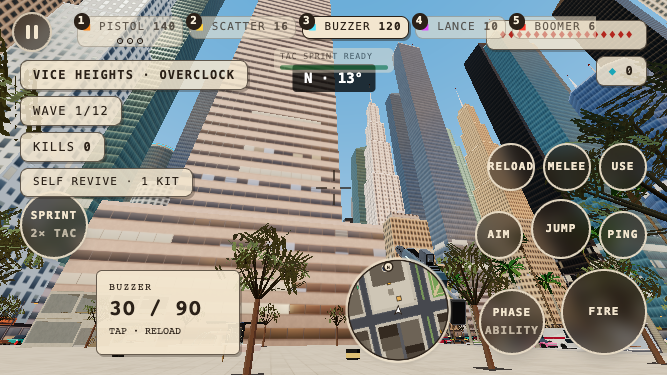
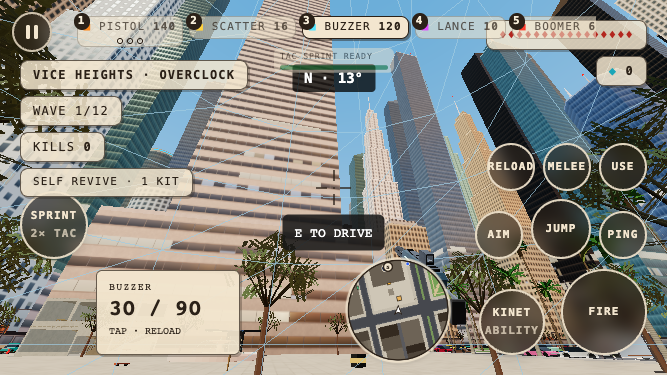
Keep ammo visible through scopes and clear compact controller status

diff --git a/src/game/Game.tsx b/src/game/Game.tsx
@@ -9179,7 +9179,7 @@ export function Game() {
       )}
       <style>{`@keyframes hurt { from { opacity: 1 } to { opacity: 0 } }`}</style>
 
-      <div className={`pointer-events-none fixed inset-0 font-mono ${touchUi ? "z-[25]" : "z-10"}`}>
+      <div data-combat-hud data-touch={touchUi} className={`pointer-events-none fixed inset-0 font-mono ${touchUi ? "z-[25]" : "z-10"}`}>
         <div className="flex items-start justify-between p-5 text-[#2b2118]">
           <div className={`flex flex-col items-start gap-1.5 ${touchUi ? "mt-10 text-[11px]" : "text-xs"}`}>
             {started && !ended && (
@@ -9380,28 +9380,30 @@ export function Game() {
             SELF REVIVE · {soloKit.kit ? "1 KIT" : "EMPTY · SHOP / RARE FINDS"}
           </HudChip>
         )}
-        {locked && !ended && (
-          <SprintMeter
-            className={
-              touchUi
-                ? "absolute left-1/2 top-12 origin-top -translate-x-1/2 scale-75"
-                : "absolute bottom-[3.9rem] left-5"
-            }
-          />
-        )}
-        {locked && !ended && !touchUi && (
-          <div className="absolute bottom-6 left-5 rounded-md border border-[#2b2118]/70 bg-[#f3e6cf]/85 px-3 py-1.5 text-xs tracking-widest text-[#2b2118] shadow-[2px_2px_0_0_rgba(43,33,24,0.3)]">
-            <span className="rounded-sm border border-[#2b2118]/30 bg-[#2b2118] px-1.5 py-0.5 font-bold text-[#f7eeda]">
-              <KeyHint action="ability" />
-            </span>{" "}
-            {ABILITIES[ability].name} ·{" "}
-            {abilCd.left > 0 ? (
-              <span className="opacity-50">{Math.ceil(abilCd.left)}s</span>
-            ) : (
-              <b className="text-[#1d7a37]">READY</b>
-            )}
-          </div>
-        )}
+        <div className="hud-player-status">
+          {locked && !ended && (
+            <SprintMeter
+              className={
+                touchUi
+                  ? "absolute left-1/2 top-12 origin-top -translate-x-1/2 scale-75"
+                  : "absolute bottom-[3.9rem] left-5"
+              }
+            />
+          )}
+          {locked && !ended && !touchUi && (
+            <div className="hud-ability absolute bottom-6 left-5 rounded-md border border-[#2b2118]/70 bg-[#f3e6cf]/85 px-3 py-1.5 text-xs tracking-widest text-[#2b2118] shadow-[2px_2px_0_0_rgba(43,33,24,0.3)]">
+              <span className="rounded-sm border border-[#2b2118]/30 bg-[#2b2118] px-1.5 py-0.5 font-bold text-[#f7eeda]">
+                <KeyHint action="ability" />
+              </span>{" "}
+              {ABILITIES[ability].name} ·{" "}
+              {abilCd.left > 0 ? (
+                <span className="opacity-50">{Math.ceil(abilCd.left)}s</span>
+              ) : (
+                <b className="text-[#1d7a37]">READY</b>
+              )}
+            </div>
+          )}
+        </div>
 
         {eventMsg && locked && !ended && (
           <div className="absolute left-1/2 top-[22%] -translate-x-1/2 rounded-md border-2 border-[#f3e6cf]/50 bg-[#b3261e]/90 px-6 py-2 text-center text-lg font-bold tracking-[0.3em] text-[#f7eeda] shadow-[3px_3px_0_0_rgba(43,33,24,0.55)]">

diff --git a/src/game/ui/ammo-hud.css b/src/game/ui/ammo-hud.css
@@ -1,5 +1,6 @@
 .ammo-hud {
   position: fixed;
+  z-index: 20;
   left: max(20px, env(safe-area-inset-left));
   bottom: calc(max(20px, env(safe-area-inset-bottom)) + 92px);
   width: 168px;
@@ -24,8 +25,30 @@ html.rs-incar .ammo-hud { display: none; }
 .ammo-hud[data-touch="true"] {
   bottom: calc(max(20px, env(safe-area-inset-bottom)) + 232px);
 }
+.hud-player-status { display: contents; }
 /* On landscape phones use the gap between the movement thumb and minimap. */
 @media (orientation: landscape) and (max-height: 540px) {
+  .ammo-hud[data-touch="false"] {
+    bottom: max(20px, env(safe-area-inset-bottom));
+  }
+  [data-combat-hud][data-touch="false"] .hud-player-status {
+    position: absolute;
+    left: calc(max(20px, env(safe-area-inset-left)) + 176px);
+    bottom: max(24px, env(safe-area-inset-bottom));
+    width: 160px;
+    display: flex;
+    flex-direction: column;
+    gap: 6px;
+  }
+  [data-combat-hud][data-touch="false"] .hud-player-status > * {
+    position: static;
+    width: 100%;
+  }
+  [data-combat-hud][data-touch="false"] .hud-ability {
+    padding: 6px 8px;
+    font-size: 10px;
+    letter-spacing: .04em;
+  }
   .ammo-hud[data-touch="true"] {
     left: calc(max(20px, env(safe-area-inset-left)) + 76px);
     bottom: max(20px, env(safe-area-inset-bottom));

diff --git a/docs/evidence/ammo-hud/README.md b/docs/evidence/ammo-hud/README.md
@@ -1,13 +1,11 @@
 # Fixed ammo / reload HUD
 
-The user-provided `before-user.png` shows the world-projected ammo label overlapping the elevator floor button. `desktop.png` and `desktop-look.png` show the fixed HUD at the same viewport rectangle after yaw/pitch input. `reload.png` shows the progress indicator in that same slot.
+The user-provided `before-user.png` shows the projected ammo label overlapping the elevator floor button. `desktop.png` and `desktop-look.png` show the fixed HUD at the same viewport rectangle after yaw/pitch input. `reload.png` shows progress in that slot. `desktop-ads.png` confirms the panel remains visible above the Longshot scope mask.
 
-`touch-landscape.png`, `touch-667.png`, and `touch-568.png` cover 844×390, 667×375, and 568×320. The ammo panel clears the minimap, SELF REVIVE chip and action buttons. `touch-portrait.png` confirms the existing rotate-device screen at 390×844.
+`controller.png` shows the Switch reload glyph after Xbox and PlayStation checks. `controller-844.png`, `controller-568.png`, and `keyboard-568.png` cover short non-touch screens: ammo, sprint, the longest ability name (KINETIC BARRIER), self-revive status, and minimap stay separate. Sprint and ability flow together beside ammo so wrapped text cannot overlap.
 
-Run `BASE=http://127.0.0.1:4187 node scripts/playtest-ammo-hud.mjs` against the isolated dev server, or set BASE to a local production server. It writes screenshots and `results.json`, asserts a stable rectangle after look inputs, validates reload progress/counts, pause/resume, driving visibility, controller-family glyphs, touch overlap and downing visibility. Controller input is simulated through the browser Gamepad API; no physical controller or physical phone was tested. Vehicle visibility uses the existing debug handle. No performance benchmark was run: this change adds no scene rendering or per-frame React updates.
+`touch-landscape.png`, `touch-667.png`, and `touch-568.png` cover 844×390, 667×375, and 568×320. Ammo clears the minimap, SELF REVIVE chip and action buttons. `touch-portrait.png` confirms the existing rotate-device screen at 390×844. `downed.png` confirms ammo is absent during the self-revive prompt. The elevator root-state assertion verifies ammo hides while the floor controls are active.
 
-`controller.png` shows the Switch reload glyph after Xbox and PlayStation checks. `downed.png` confirms ammo is absent during the self-revive prompt. The production-build run recorded 13 passing functional assertions with zero page errors. All 69 unit tests on the combined revive + ammo tree, typecheck, production build, and repository-map coverage passed.
+Run `BASE=http://127.0.0.1:4187 node scripts/playtest-ammo-hud.mjs` against the isolated dev server, or set BASE to a production server. It writes screenshots and `results.json`. The final production-build capture recorded 17 functional assertions with zero page errors. Controller input is simulated through the browser Gamepad API; no physical controller or phone was tested. Vehicle visibility uses the existing debug handle. No performance benchmark was run: this adds no scene rendering or per-frame React updates.
 
-Shared Game.tsx integration is limited to the AmmoHud import and its conditional mount before ScopeOverlay. No revive, vehicle, or movement logic changed.
-
-The smallest landscape view also checks the existing elevator HUD state: ammo hides alongside the weapon strip while the floor button prompt is active. A final layout fixture caught and fixed an 8.6px overlap before release.
+Shared Game.tsx changes are presentation-only: the AmmoHud import/mount, stable input-mode marker, and a status wrapper for compact layout. TravelView preserves controller entry progress, driving glyphs, travel positioning, and world signs; only the ammo fallback is removed. No revive, vehicle, or movement logic changed.
